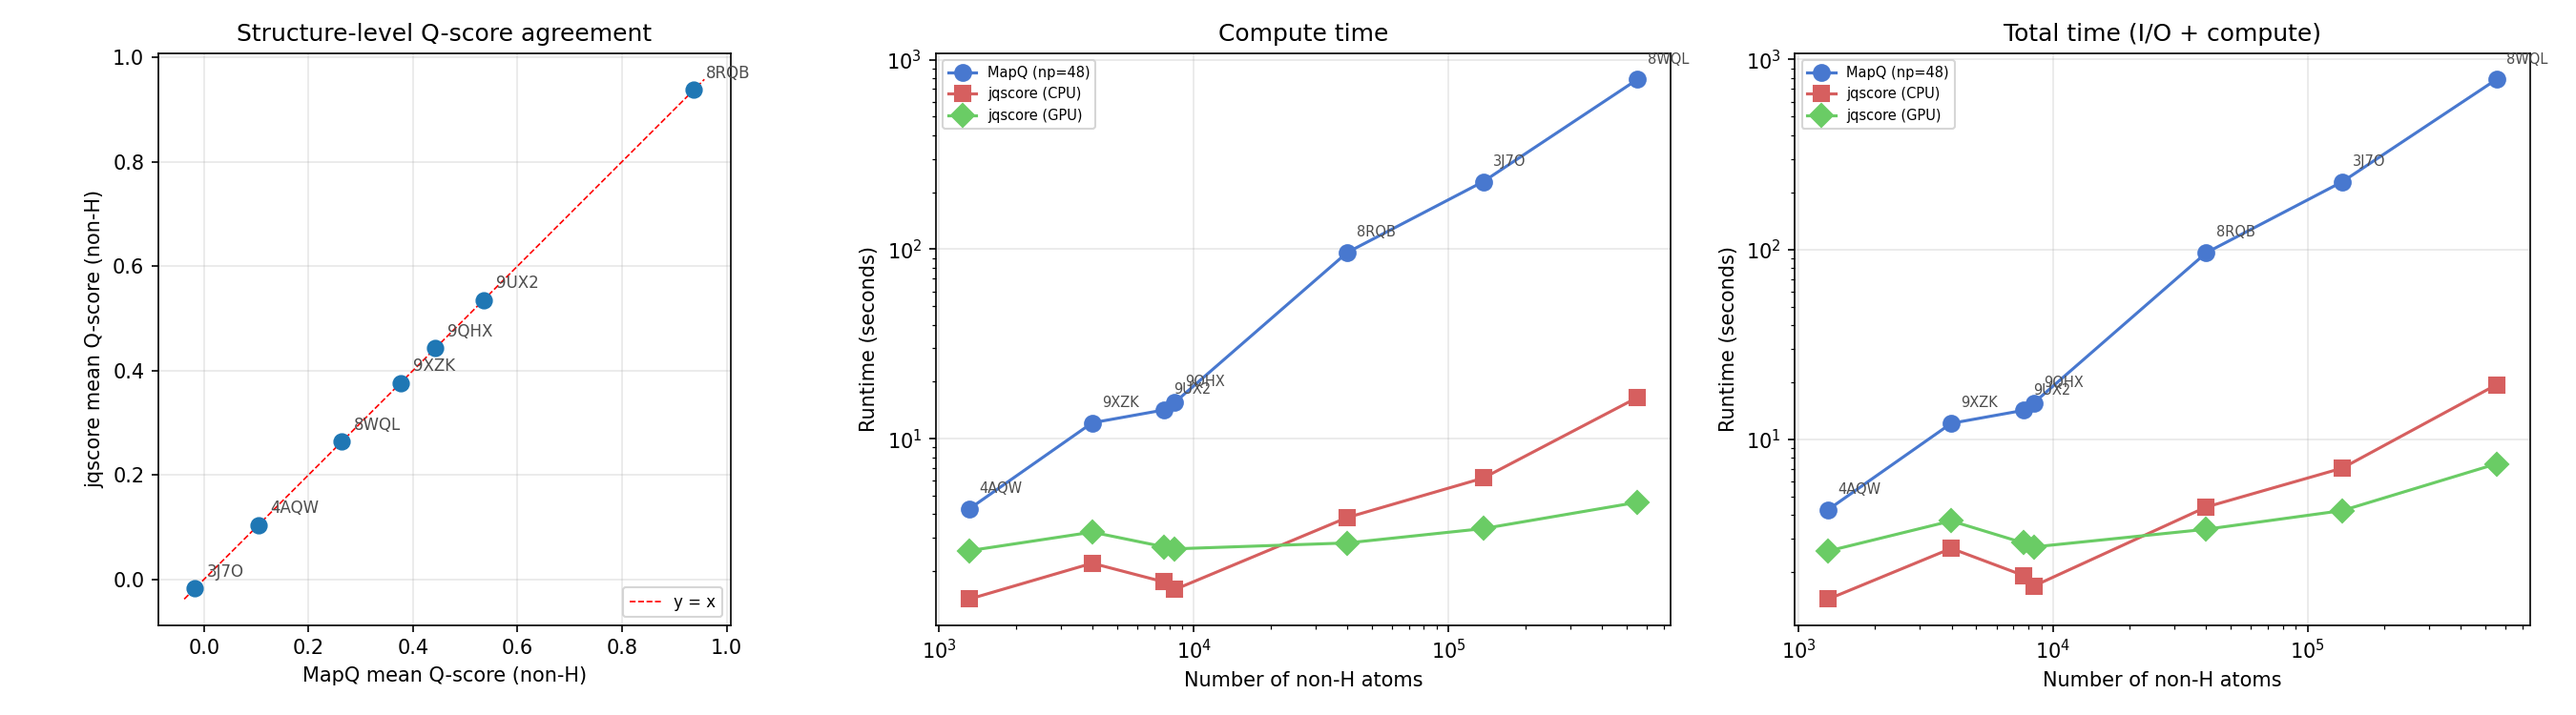
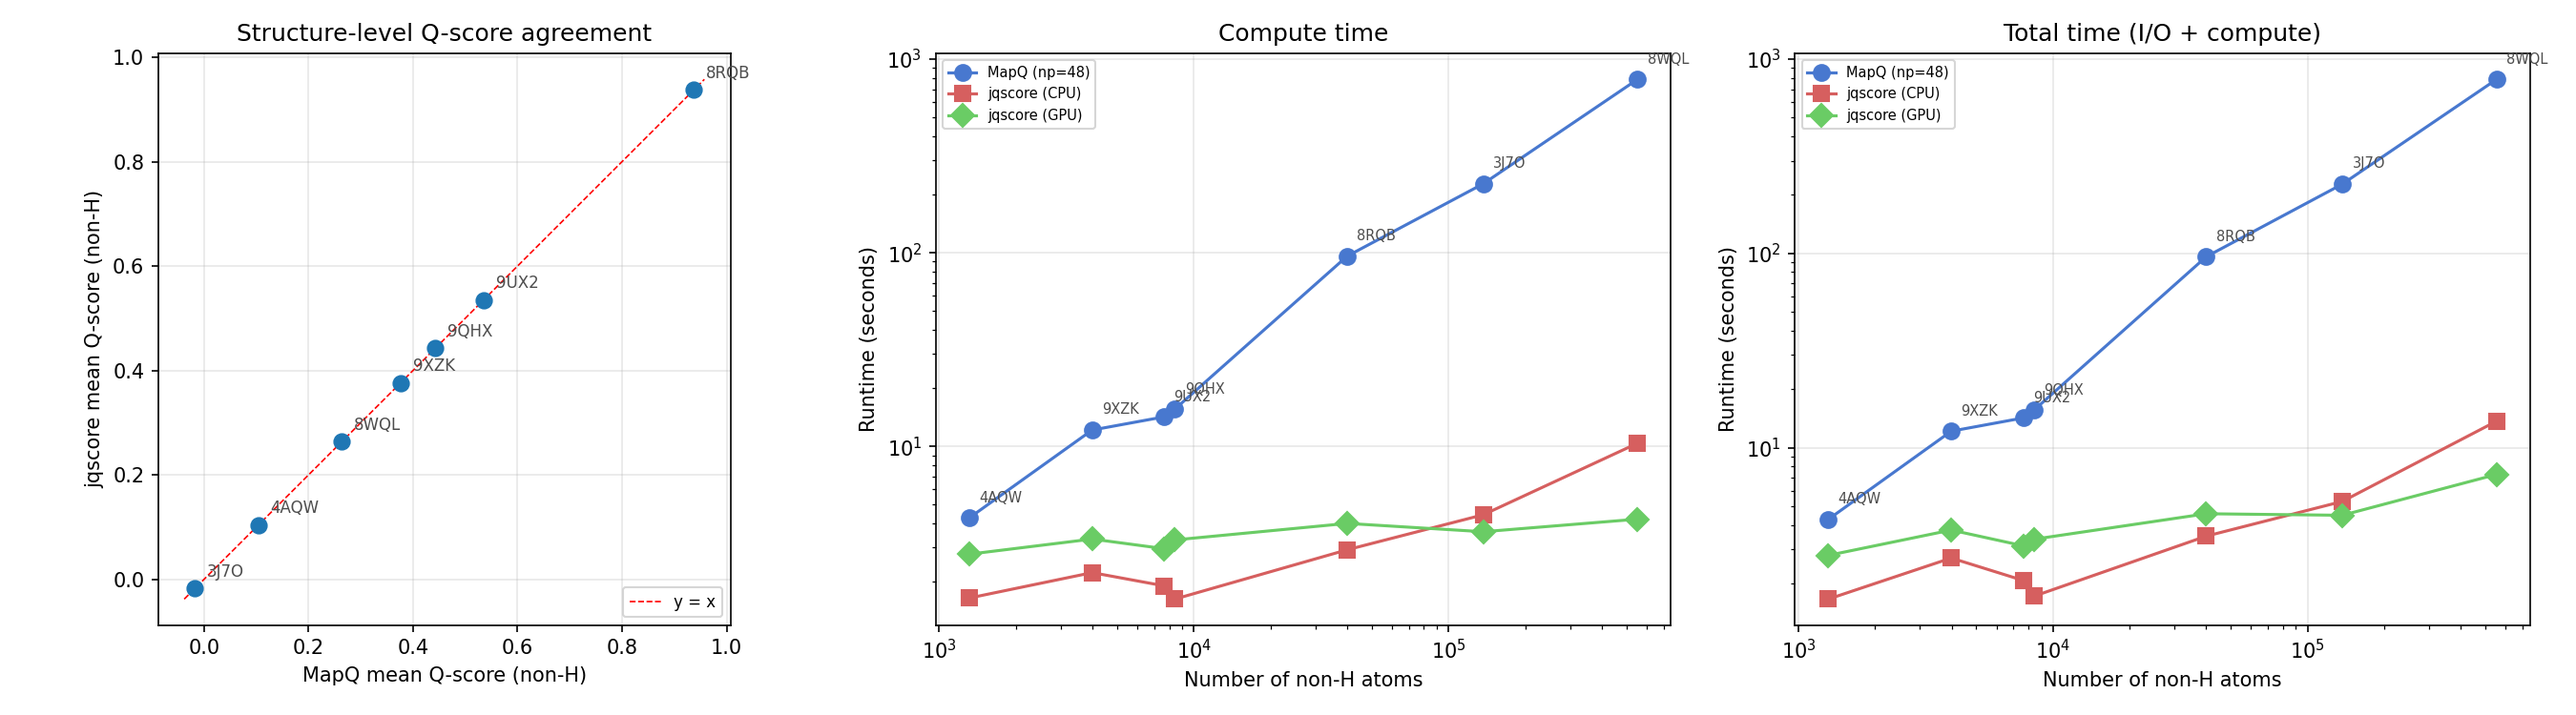
Refresh jqscore vs MapQ benchmark results and 36ZA timings
Antigravity-Session: e6b23ba9-df1a-4b06-9fbf-fb1a7e15914c

diff --git a/docs/jqscore_vs_mapq/README.md b/docs/jqscore_vs_mapq/README.md
@@ -1,6 +1,6 @@
 # jqscore vs MapQ Benchmark Summary
 
-**Date:** 2026-10-12  
+**Date:** 2026-10-28  
 **Structures:** 7  
 **sigma:** 0.4  
 
@@ -24,13 +24,13 @@
 
 | PDB | EMDB | Res (A) | Non-H atoms | r | mean diff | max \|diff\| | MapQ (s) | CPU compute (s) | CPU total (s) | GPU compute (s) | GPU total (s) |
 |-----|------|---------|-------------|---|-----------|-------------|----------|-----------------|---------------|-----------------|---------------|
-| 4AQW | EMD-2078 | 9.50 | 1311 | 1.000000 | 0.000000 | 0.000004 | 4.3 | 1.4 | 1.4 | 2.6 | 2.6 |
-| 9XZK | EMD-72359 | 3.91 | 3985 | 1.000000 | -0.000000 | 0.000025 | 12.1 | 2.2 | 2.7 | 3.2 | 3.7 |
-| 9UX2 | EMD-64570 | 2.73 | 7640 | 1.000000 | 0.000000 | 0.000019 | 14.2 | 1.8 | 1.9 | 2.7 | 2.9 |
-| 9QHX | EMD-53182 | 3.47 | 8410 | 1.000000 | 0.000000 | 0.002149 | 15.6 | 1.6 | 1.7 | 2.6 | 2.7 |
-| 8RQB | EMD-19436 | 1.09 | 39996 | 1.000000 | -0.000000 | 0.000027 | 96.1 | 3.8 | 4.4 | 2.8 | 3.4 |
-| 3J7O | EMD-2649 | 3.40 | 136815 | 0.999998 | -0.000003 | 0.131009 | 227.1 | 6.2 | 7.1 | 3.4 | 4.2 |
-| 8WQL | EMD-37749 | 3.50 | 552008 | 1.000000 | -0.000000 | 0.029013 | 786.4 | 16.5 | 19.4 | 4.6 | 7.4 |
+| 4AQW | EMD-2078 | 9.50 | 1311 | 1.000000 | 0.000000 | 0.000004 | 4.3 | 1.6 | 1.7 | 2.8 | 2.8 |
+| 9XZK | EMD-72359 | 3.91 | 3985 | 1.000000 | -0.000000 | 0.000025 | 12.1 | 2.2 | 2.7 | 3.3 | 3.8 |
+| 9UX2 | EMD-64570 | 2.73 | 7640 | 1.000000 | 0.000000 | 0.000019 | 14.2 | 1.9 | 2.1 | 3.0 | 3.1 |
+| 9QHX | EMD-53182 | 3.47 | 8410 | 1.000000 | 0.000000 | 0.002149 | 15.6 | 1.6 | 1.7 | 3.3 | 3.4 |
+| 8RQB | EMD-19436 | 1.09 | 39996 | 1.000000 | -0.000000 | 0.000027 | 96.1 | 2.9 | 3.5 | 4.0 | 4.6 |
+| 3J7O | EMD-2649 | 3.40 | 136815 | 0.999998 | -0.000003 | 0.131009 | 227.1 | 4.4 | 5.3 | 3.6 | 4.5 |
+| 8WQL | EMD-37749 | 3.50 | 552008 | 1.000000 | -0.000000 | 0.029013 | 786.4 | 10.4 | 13.7 | 4.2 | 7.3 |
 
 ## Plots
 

diff --git a/README.md b/README.md
@@ -71,9 +71,9 @@ Atoms are processed in batches (`batch_size`, default 32768); the map stays on
 the GPU throughout. Lower `batch_size` if the GPU runs out of memory.
 
 On an RTX A4000, `jqscore 36ZA.cif emd_76130.map` (11.2 M atoms, 2888
-chains, 800³ map) takes 2 min, half of it reading the 1.2 GB mmCIF.
+chains, 800³ map) takes 1 min 40 s, over half of it reading the 1.2 GB mmCIF.
 `jqscore-cmd`, which reads the mmCIF once and writes the annotated copy,
-takes 1 min 40 s (14 GB peak memory).
+takes 1 min 15 s (14 GB peak memory).
 
 ## CLI
 
